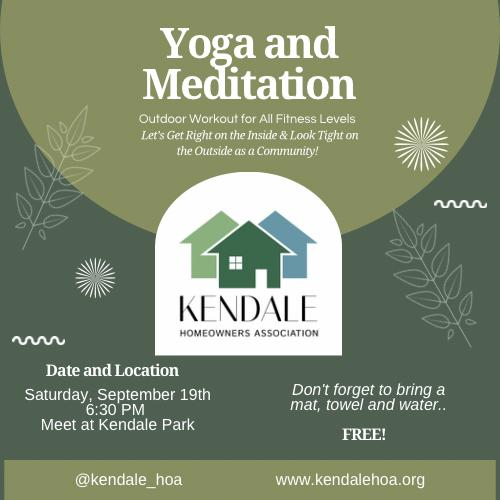
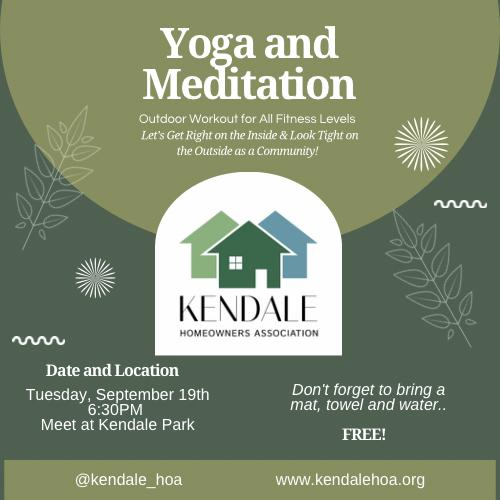
chore(event): publishing fixed event

Changed region(s): [[0.03, 0.78, 0.42, 0.84]]

diff --git a/src/lib/data/events.ts b/src/lib/data/events.ts
@@ -81,14 +81,14 @@ const events: Event[] = [
     photo: khaLogo,
     photoAlt: "The KHA Logo"
   },
-  // {
-  //   name: 'Yoga and Meditation Event',
-  //   description: 'Join your friends and neighbors for a FREE Yoga and Meditation session lead by Gloria, instructor from Gin Yogi.',
-  //   date: new Date("2023-09-19T18:30"),
-  //   location: "Kendale Park",
-  //   photo: yogaFlyer,
-  //   photoAlt: "A flyer for the Yoga and Meditation event"
-  // }
+  {
+    name: 'Yoga and Meditation Event',
+    description: 'Join your friends and neighbors for a FREE Yoga and Meditation session lead by Gloria, instructor from Gin Yogi.',
+    date: new Date("2023-09-19T18:30"),
+    location: "Kendale Park",
+    photo: yogaFlyer,
+    photoAlt: "A flyer for the Yoga and Meditation event"
+  }
 ];
 
 export default events;
